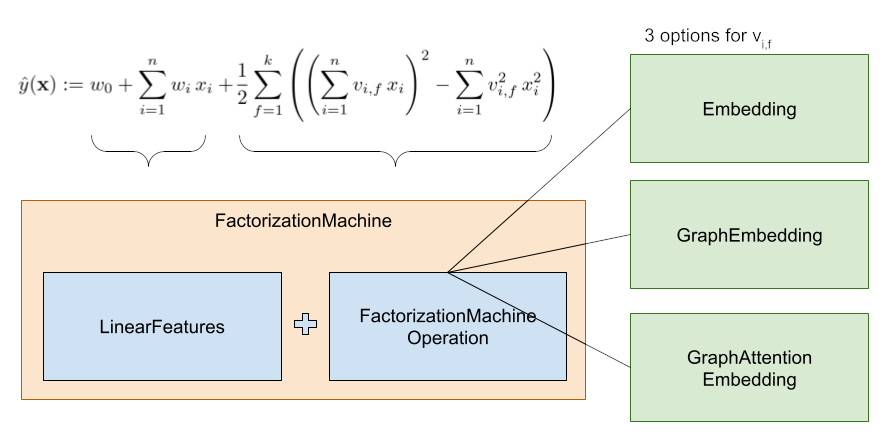
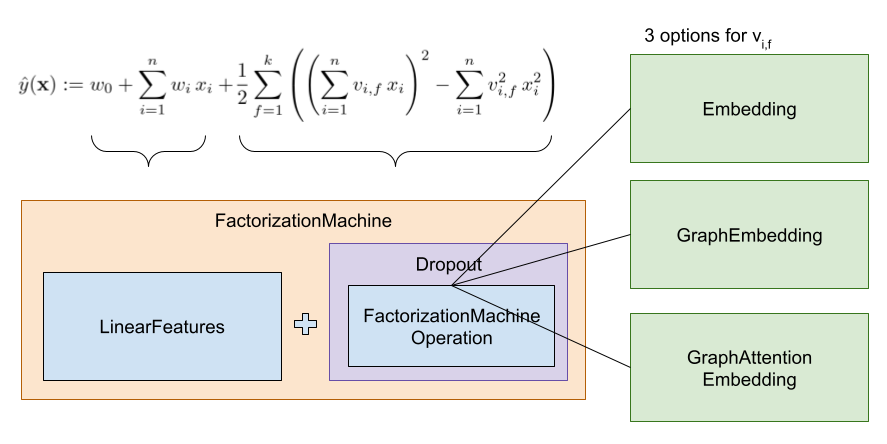
wip readme, updated spotify hparams

diff --git a/README.md b/README.md
@@ -14,19 +14,30 @@ TODO
 
 # Introduction <a name="intro"></a>
 
-The goal of this project is to implement a state-of-the art collaborative filtering recommender system using machine learning that can be trained on multiple datasets. Collaborative filtering is the method used by tech companies like Amazon and Netflix for their recommender systems as it can be trained without having user & item metadata.
+The goal of this project is to develop a state-of-the art collaborative filtering recommender system using machine learning that can be trained on multiple datasets. Collaborative filtering is the method used by tech companies like Amazon and Netflix for their recommender systems as it can be trained without having user & item metadata.
 
 Factorization machines were proposed in [this 2010 paper](https://www.csie.ntu.edu.tw/~b97053/paper/Rendle2010FM.pdf) as a way of doing matrix factorization that improves
 on the classic single value decomposition models by being more optimized for sparse datasets and supporting additional interaction context, this is ideal for recommender systems. In addition to that, we also want to implement [this paper](https://arxiv.org/pdf/1609.02907.pdf) that proposes replacing the factorization machine embedding with a graph convolutional network.
 
-
 # Overview <a name="overview"></a>
+
+## Setup & Usage
+
+The whole project is implemented as a command-line tool. We provide the following commands:
+
+* `nnrecommend train` train a model on a dataset
+* `nnrecommend fit` fit a dataset using [surprise](https://surpriselib.com/) algorithms
+* `nnrecommend tune` tune model hyperparameters using [ray tune](https://docs.ray.io/en/master/tune/index.html)
+* `nnrecommend explore-dataset` show information about a dataset
+* `nnrecommend recommend` load a trained model to get recommendations
+
+Please read the tool setup and usage instructions [in this separate file](./USAGE.md).
 
 ## Architecture <a name="architecture"></a>
 
 ### Model
 
-Our model classes can be found in the `nnrecommend.model` namespace. The `FactorizationMachine` equation is split in two classes; `LinearFeatures` implements the linear regression part of the equation, wile `FactorizationMachineOperation` implements the square of sum minus sum of squares part. The embeddings can be of thre types, using the normal `torch.nn.Embedding` for linear embeddings, using `GraphEmbedding` which internally uses `torch_geometric.nn.GCNConv`, and using `GraphAttentionEmbedding` which internally uses `torch_geometric.nn.GATConv`.
+Our model classes can be found in the `nnrecommend.model` namespace. The `FactorizationMachine` equation is split in two classes; `LinearFeatures` implements the linear regression part of the equation, wile `FactorizationMachineOperation` implements the square of sum minus sum of squares part. The embeddings can be of thre types, using the normal `torch.nn.Embedding` for linear embeddings, using `GraphEmbedding` which internally uses `torch_geometric.nn.GCNConv`, and using `GraphAttentionEmbedding` which internally uses `torch_geometric.nn.GATConv`. Over the embedding module we added a dropout to prevent the model from overfitting. 
 
 ![factorization machine model](./.readme/model.png)
 
@@ -36,21 +47,46 @@ as explained in [this paper](https://arxiv.org/pdf/1205.2618.pdf) in the `BPRLos
 ### Dataset
 
 `nnrecommend.dataset.InteractionDataset` is the main dataset class used in the tool. It takes care of dealing with
-a two dimensional numpy array of interactions where every column is formed by consecutive ids.
+a two dimensional numpy array of interactions where every column is formed by consecutive ids. To guarantee its correct behavior, we wrote some unit tests for it that can be found in the `test_dataset.py` file.
 
 ![interaction dataset](./.readme/interaction_dataset.png)
 
+The `InteractionPairDataset` class allows the system to train de model with `BPRLoss` by converting the dataset into pairs of positive and negative interactions.
+
+![interaction pair dataset](./.readme/interaction_pairs.png)
+
+The `GroupingDataset` class is used in the testset to make the trainloader (set with `batch=1`) return the interaction groups for the same user.
+
 Since we want to be able to load different datasets, each one needs to implement `nnrecommend.dataset.BaseDatasetSource`,
 this class will setup the basic dataset logic like removing low interactions, adding previous item context, etc...
+This is currently implemented for the movielens, spotify & podcasts datasets. Every new dataset would need to load:
+
+* `self.trainset`: the `InteractionDataset` with the data
+* `self.items`: a pandas `DataFrame` containing item metadata (used in the recommender)
+
+Each specific dataset source can call `BaseDatasetSource._setup` to use generic functionallity like removing interactions with users or items that have low counts or extracting the testset interactions.
 
 ### Operations
 
+Since most of the commands have similar flows, we implemented them in reusable classes.
+
 The `nnrecommend.operation.Setup` class takes the `nnrecommend.dataset.BaseDatasetSource` and configures the negative sampling based on the provided hyperparameters.
 
-## Usage
+The `nnrecommend.operation.Trainer` class contains the core training logic, it supports both pairwise datasets and normal ones.
 
-The tool consists of a set of commands implemented using the [click](https://click.palletsprojects.com/en/8.0.x/) library.
-Please read the tool installation and usage instructions [here](./USAGE.md).
+The `nnrecommend.operation.Tester` class is used to obtain the evaluation metrics from a model or algorithm. It supports the following:
+* Hit Ratio (HR): Measures whether the real test item is in the top positions of the recommendation list
+* Normalized Discounted Cumulative Gain (NDCG): Measures the ranking quality which gives information about where in the raking is our real test item.
+* Coverage (COV): Measures the amount of total items in the topk positions.
+
+The `nnrecommend.operation.RunTracker` class sends the training & testing metrics to tensorboard and could be extended to send them to other systems.
+
+The `nnrecommend.operation.Finder` and `nnrecommend.operation.Recommender` classes are used in the `recommend` subcommand
+to find items that match metadata and then ask the model for its recommendations.
+
+### Hyperparameters
+
+We created a `nnrecommend.hparams.HyperParameters` class that can load hyperparameters from the command line or from files.
 
 # Experiments
 
@@ -87,7 +123,6 @@ nnrecomment --hparams-file hparams/movielens/initial_hparams.json fit data/ml-10
 ![initial results with linear compared to knn and baseline](./.readme/movielens_initial.png)
 
 ![initial results legend](./.readme/movielens_initial_legend.png)
-
 
  nabling `pairwise_loss` and adding previous item context we achieve better results.
 We optimized the model parameters using the `nnrecommend tune` command.
@@ -136,11 +171,20 @@ Now that we see that our models improved the results of the paper in the moviele
 Our hypothesis is that we can train our models on this data and obtain similar results to the movielens ones.
 In addition to this, since the dataset includes a lot of metadata, we want to add other context rows and evaluate if those improve the metrics.
 
-## Itunes Podcasts
-
-We found another kaggle dataset that looked promising, the itunes podcasts.
-
 ## Addressing The Cold Start Problem
+
+We found that our models we're pretty good at predicting recommendations for existing users, but since this is a collaborative filtering recommender system, it suffers from the cold start problem, i.e. it cannot recommend items to users that are not in the dataset.
+
+To solve this issue we propose a modification of the `InteractionDataset` that goes as follows:
+* remove the `user` column
+* compute previous item context column
+* switch the item column with the previous item context column
+
+With this change we have a dataset where given a previous item, the factorization machine should give a rating for the next item. Our hypothesis is that we can use this new dataset to train the same factorization machine to recommend an item to new users that only need to provide 1 item they like. This algorithm could be easily extended to add more previous item columns and be able to recommend an item by providing `n` previous items.
+
+To evaluate this hypothesis we can use the same metrics as in the normal factorization machine, we will just group by previous item instead of by user. That said, to test the trained model and obtain some sample recommendations, it would be best to have dataset that contains item metadata. Therefore we will test with the movielens dataset, since the spotify one does not contain song names.
+
+We found another [kaggle dataset](https://www.kaggle.com/thoughtvector/podcastreviews) that looked promising and included item metadata, information about itunes podcasts reviews.
 
 # Conclusions
 

diff --git a/USAGE.md b/USAGE.md
@@ -52,9 +52,19 @@ Once installed make sure you have the python environment scripts directory in yo
 Supported context values are `previous` & `skip`, and they depend on each dataset.
 Additionally you can set `interaction_context:random` to test with a random context, this is used to confirm that the factorization machine is correctly implemented and does not improve when adding random context.
 
+### Subcommands
+
+Details for the different subcommands are provided later
+
+* `train` train a model on a dataset
+* `fit` fit a dataset using a [surprise](https://surpriselib.com/) algorithm
+* `tune` tune model hyperparameters using [ray tune](https://docs.ray.io/en/master/tune/index.html)
+* `explore-dataset` show information about a dataset
+* `recommend` load a trained model to get recommendations
+
 ## Command Line Interface
 
-To see the different available actions and parameters run
+Once the package is installed and you have the python bin path in you system path, to see the different available actions and parameters run
 
 ```bash
 nnrecommend --help
